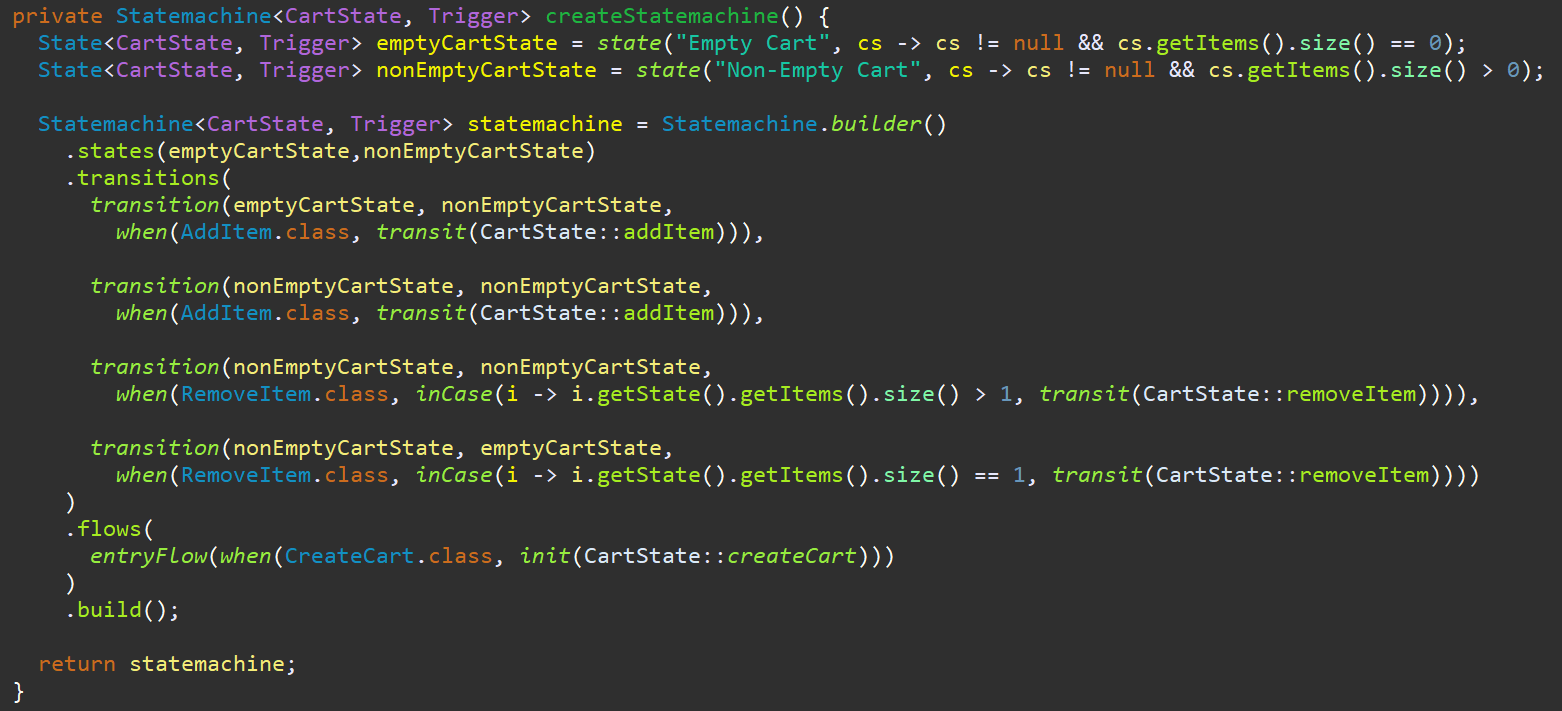
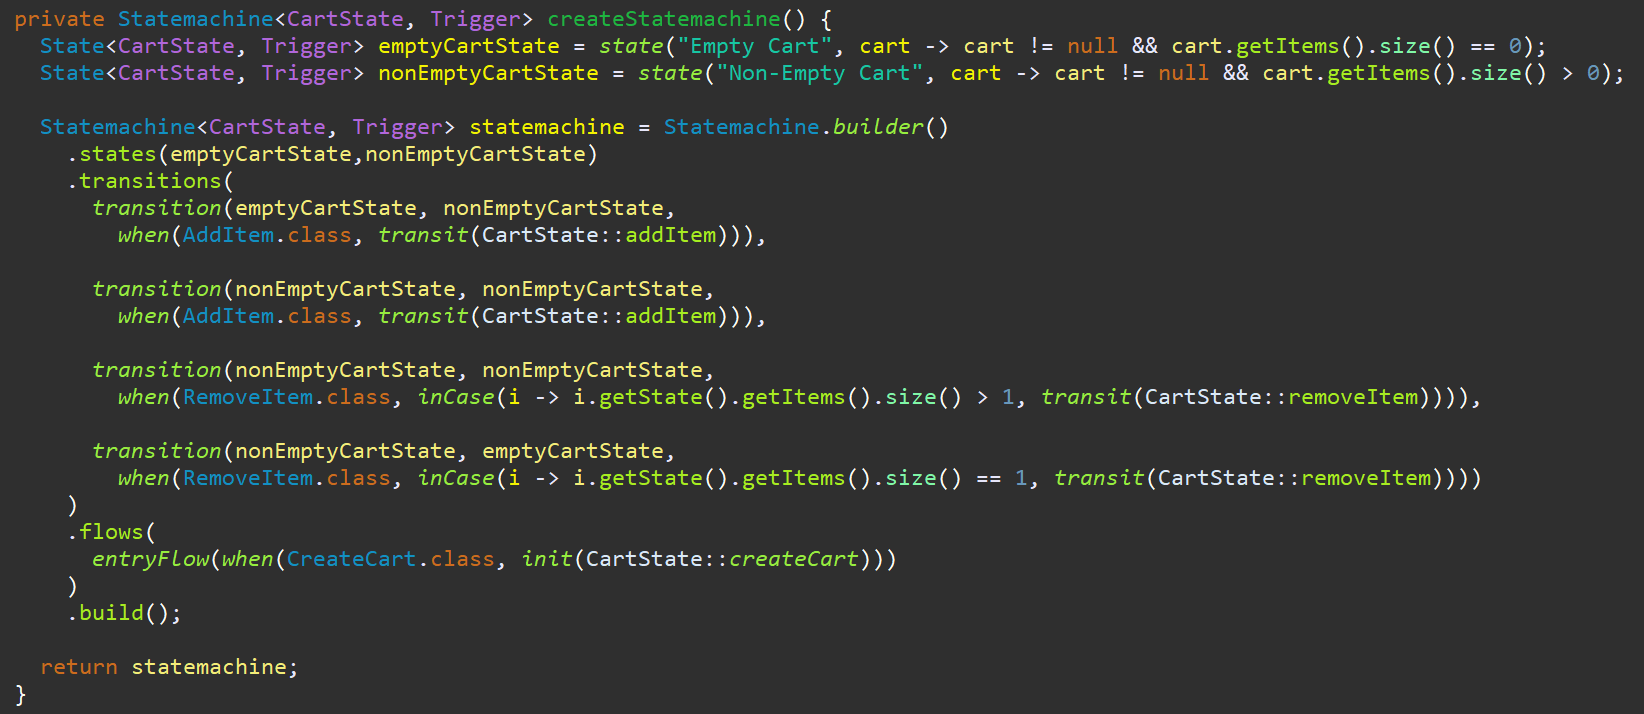
Adapt invariant in code to diagram

diff --git a/src/test/java/org/requirementsascode/act/statemachine/testdata/FlatCart.java b/src/test/java/org/requirementsascode/act/statemachine/testdata/FlatCart.java
@@ -44,8 +44,8 @@ public class FlatCart {
 	}
 	
 	private Statemachine<CartState, Trigger> createStatemachine() {
-		State<CartState, Trigger> emptyCartState = state("Empty Cart", cs -> cs != null && cs.getItems().size() == 0);
-		State<CartState, Trigger> nonEmptyCartState = state("Non-Empty Cart", cs -> cs != null && cs.getItems().size() > 0);
+		State<CartState, Trigger> emptyCartState = state("Empty Cart", cart -> cart != null && cart.getItems().size() == 0);
+		State<CartState, Trigger> nonEmptyCartState = state("Non-Empty Cart", cart -> cart != null && cart.getItems().size() > 0);
 
 		Statemachine<CartState, Trigger> statemachine = Statemachine.builder()
 			.states(emptyCartState,nonEmptyCartState)
